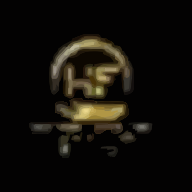
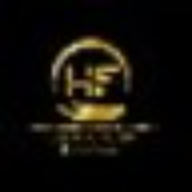
Add files via upload

diff --git a/index.html b/index.html
@@ -16,11 +16,15 @@
     <meta name="viewport" content="width=device-width, initial-scale=1.0">
     <title>Harflix Furniture | Gachie, Kiambu, Kenya </title>
     <link rel="stylesheet" href="style.css">
-<link rel="icon" type="image/png" href="https://hackerlurker.github.io/favicon-96-96/" sizes="96x96" />
-<link rel="icon" type="image/svg+xml" href="https://hackerlurker.github.io/harflixsolutionsandfurniture/harflixsolutionsandfurniture/favicon.svg" />
-<link rel="shortcut icon" href="https://hackerlurker.github.io/harflixsolutionsandfurniture/harflixsolutionsandfurniture/favicon.ico" />
-<link rel="apple-touch-icon" sizes="180x180" href="https://hackerlurker.github.io/harflixsolutionsandfurniture/harflixsolutionsandfurniture/apple-touch-icon.png" />
-<link rel="manifest" href="https://hackerlurker.github.io/harflixsolutionsandfurniture/harflixsolutionsandfurniture/site.webmanifest" />
+
+
+<link rel="icon" type="image/png" href="harflixsolutionsandfurniture/favicon-96x96.png" sizes="96x96" />
+<link rel="icon" type="image/svg+xml" href="harflixsolutionsandfurniture/favicon.svg" />
+<link rel="shortcut icon" href="harflixsolutionsandfurniture/favicon.ico" />
+<link rel="apple-touch-icon" sizes="180x180" href="harflixsolutionsandfurniture/apple-touch-icon.png" />
+<meta name="apple-mobile-web-app-title" content="Harflix" />
+<link rel="manifest" href="harflixsolutionsandfurniture/site.webmanifest" />
+
     <!-- 
     FONT START
     -->
